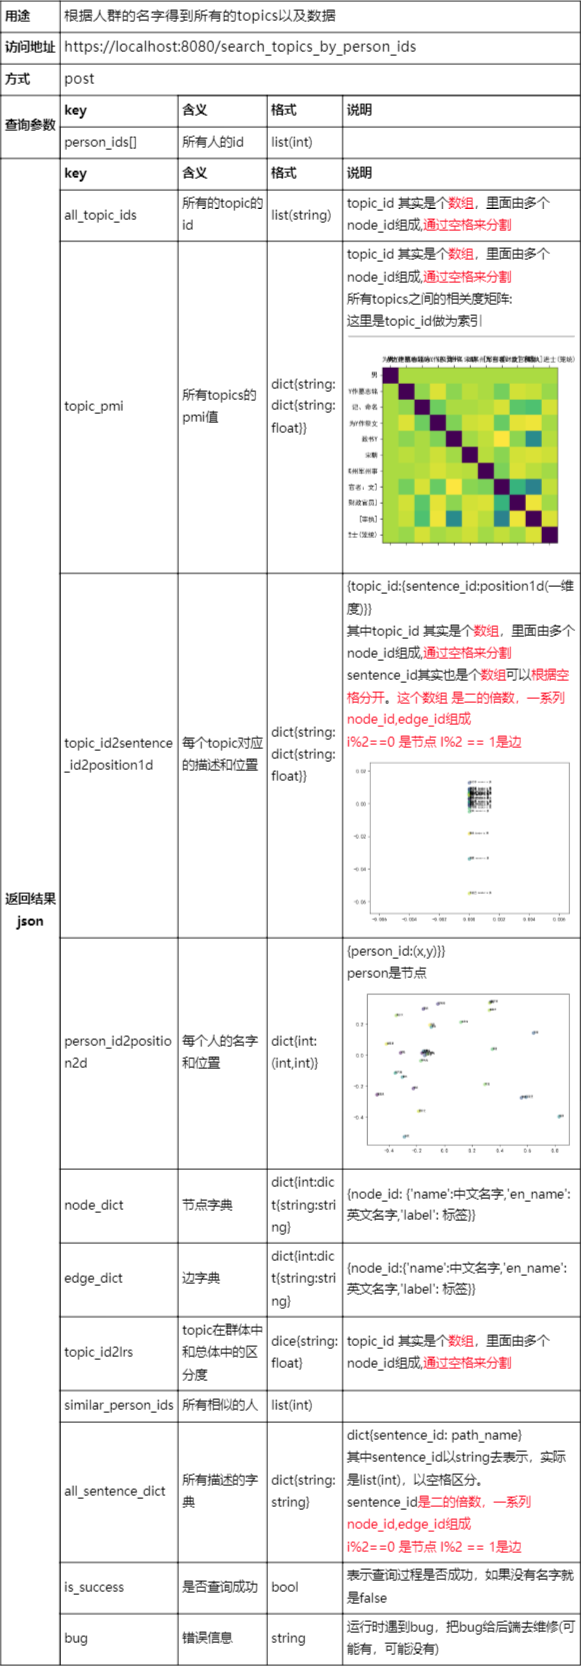
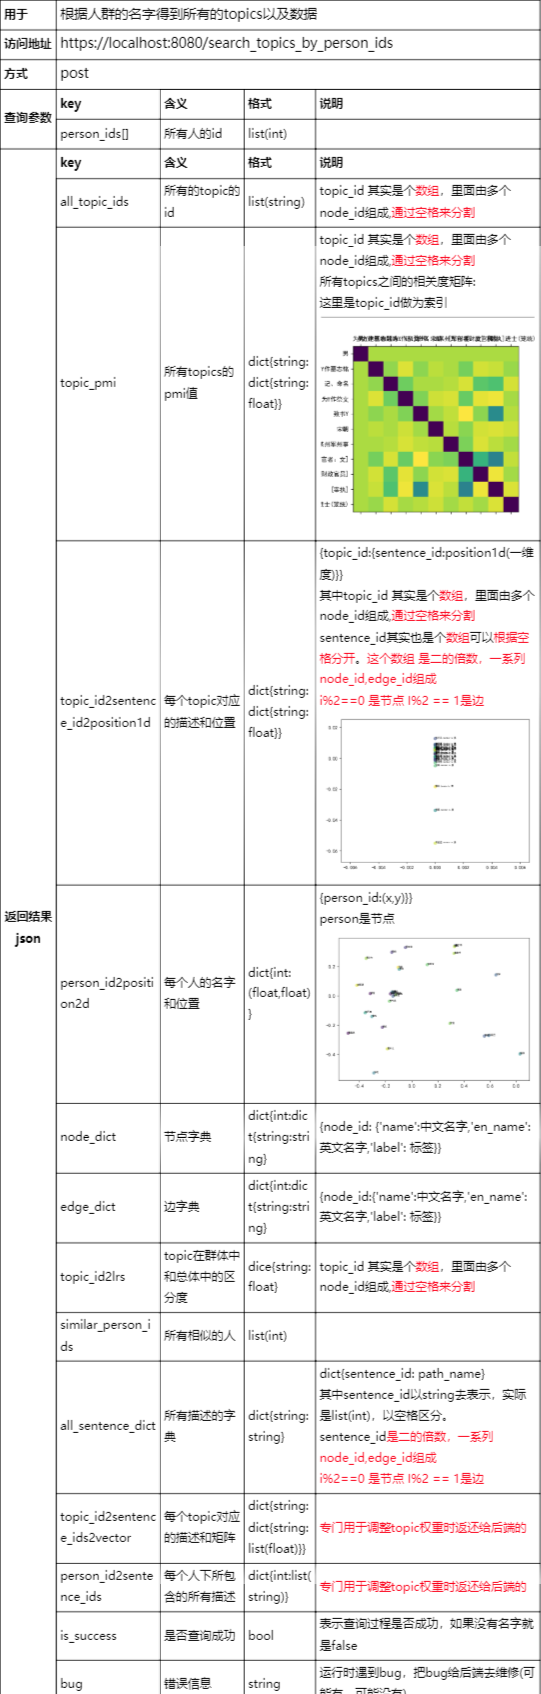
添加新接口adjust_topic_weights

Changed region(s): [[0.0, 0.0, 1.0, 1.0]]

diff --git a/templates/test_post.html b/templates/test_post.html
@@ -3,6 +3,7 @@
 <head>
     <meta charset="UTF-8">
     <title>post请求测试</title>
+    <script src="https://code.jquery.com/jquery-3.1.1.min.js"></script>
 </head>
 <body>
 <div>
@@ -56,7 +57,11 @@
         <input type="submit" value="搜索">
     </form>
 </div>
-
+<div>
+    <h2>调整topic_id权重</h2>
+    <label>执行前先要执行通过人名id搜索topic，然后再可视化一下，之后才能按调整topic_id权重这个按钮</label>
+    <button type="button" onclick="adjust_topic_weights()">调整topic_id权重</button>
+</div>
 <div>
     <h2>结果:
         <button type="button" onclick="show()">可视化</button>
@@ -67,9 +72,28 @@
 </html>
 
 <script type="text/javascript">
+    _json = {};
+
     function show() {
         var _content = document.getElementById('response').innerText; //获取json格式内容
+        _json = JSON.parse(_content);
         _content = JSON.stringify(JSON.parse(_content), null, 2);//将字符串转换成json对象
         document.getElementById('response').innerText = _content;
+    }
+
+    function adjust_topic_weights() {
+        $.ajax({
+            url: '/test_adjust_topic_weights/',
+            type: 'POST',
+            data: JSON.stringify({
+                "topic_weights": {'1 1 1': 2},
+                "topic_id2sentence_ids2vector": _json['topic_id2sentence_ids2vector'],
+                "person_id2sentence_ids": _json['person_id2sentence_ids']
+            }),
+            dataType: "json",
+            success: function (result) {
+                document.getElementById('response').innerText = JSON.stringify(result, null, 2);
+            }
+        });
     }
 </script>

diff --git a/group_anaysis/view.py b/group_anaysis/view.py
@@ -1,10 +1,11 @@
 import json
+import numpy as np
 from django.http import HttpResponse
 from django.shortcuts import render
 
 from services import common
 from services.service import get_ranges_by_name, get_topics_by_person_ids, get_person_by_ranges, get_init_ranges, \
-    get_address_by_person_ids, get_community_by_num_node_links, get_all_similar_person
+    get_address_by_person_ids, get_community_by_num_node_links, add_topic_weights
 
 
 def init_ranges(request):
@@ -88,19 +89,19 @@ def search_topics_by_person_ids(request):
         person_ids = request.POST.getlist('person_ids[]')
         try:
             person_ids = [int(_id) for _id in person_ids]
-            all_topic_ids, topic_id2sentence_id2position1d, topic_pmi, person_id2position2d, node_dict, edge_dict, topic_id2lrs, similar_person_ids, all_sentence_dict = get_topics_by_person_ids(
+            all_topic_ids, topic_id2sentence_ids2position1d, topic_pmi, person_id2position2d, node_dict, edge_dict, topic_id2lrs, similar_person_ids, all_sentence_dict, topic_id2sentence_ids2vector, person_id2sentence_ids = get_topics_by_person_ids(
                 person_ids, max_topic=15)
             result['all_topic_ids'] = [[int(_id) for _id in _ids] for _ids in all_topic_ids]
-            topic_id2sentence_id2position1d_json = {}
-            for _topic_id, _item in topic_id2sentence_id2position1d.items():
+            topic_id2sentence_ids2position1d_json = {}
+            for _topic_id, _item in topic_id2sentence_ids2position1d.items():
                 _topic_id = [str(_id) for _id in _topic_id]
                 _topic_id = ' '.join(_topic_id)
-                topic_id2sentence_id2position1d_json[_topic_id] = {}
+                topic_id2sentence_ids2position1d_json[_topic_id] = {}
                 for _sentence_id, _value in _item.items():
                     _sentence = [str(_id) for _id in _sentence_id]
                     _sentence = ' '.join(_sentence)
-                    topic_id2sentence_id2position1d_json[_topic_id][_sentence] = _value[0]
-            result['topic_id2sentence_id2position1d'] = topic_id2sentence_id2position1d_json
+                    topic_id2sentence_ids2position1d_json[_topic_id][_sentence] = _value[0]
+            result['topic_id2sentence_id2position1d'] = topic_id2sentence_ids2position1d_json
             topic_pmi_json = {}
             for _xs, _item in topic_pmi.items():
                 _xs = [str(_id) for _id in _xs]
@@ -127,9 +128,53 @@ def search_topics_by_person_ids(request):
                 _sentence_id = ' '.join(_sentence_id)
                 all_sentence_dict_json[_sentence_id] = _name
             result['all_sentence_dict'] = all_sentence_dict_json
+            topic_id2sentence_ids2vector_json = {}
+            for _topic_id, _item in topic_id2sentence_ids2vector.items():
+                _topic_id = [str(_id) for _id in _topic_id]
+                _topic_id = ' '.join(_topic_id)
+                topic_id2sentence_ids2vector_json[_topic_id] = {}
+                for _sentence_id, _value in _item.items():
+                    _sentence = [str(_id) for _id in _sentence_id]
+                    _sentence = ' '.join(_sentence)
+                    topic_id2sentence_ids2vector_json[_topic_id][_sentence] = [v for v in _value]
+            result['topic_id2sentence_ids2vector'] = topic_id2sentence_ids2vector_json
+            person_id2sentence_ids = {_person_id: list(_sentence_id) for _person_id, _sentence_id in
+                                      person_id2sentence_ids.items()}
+            result['person_id2sentence_ids'] = person_id2sentence_ids
             result['is_success'] = True
         except Exception as e:
             result['bug'] = '发给后端调试问题。输入为 person_ids:{}'.format(person_ids)
+    json_result = json.dumps(result)
+    return HttpResponse(json_result, content_type="application/json")
+
+
+def adjust_topic_weights(request):
+    request.encoding = 'utf-8'
+    result = {'is_success': False}
+    request_json = json.loads(request.body)
+    if 'topic_weights' in request_json and request_json['topic_weights'] and \
+            'topic_id2sentence_ids2vector' in request_json and request_json['topic_id2sentence_ids2vector'] and \
+            'person_id2sentence_ids' in request_json and request_json['person_id2sentence_ids']:
+        try:
+            topic_weights = {tuple([int(_id) for _id in _topic_id.split(' ')]): _weight for _topic_id, _weight in
+                             request_json['topic_weights'].items()}
+            topic_id2sentence_ids2vector_json = {}
+            for _topic_id, _items in request_json['topic_id2sentence_ids2vector'].items():
+                _topic_id = tuple([int(_id) for _id in _topic_id.split(' ')])
+                topic_id2sentence_ids2vector_json[_topic_id] = {}
+                for _sentence_id, _value in _items.items():
+                    _sentence = tuple([int(_id) for _id in _sentence_id.split(' ')])
+                    topic_id2sentence_ids2vector_json[_topic_id][_sentence] = np.array(_value)
+            person_id2sentence_ids = {int(_person_id): [tuple(_sentence_id) for _sentence_id in _sentence_ids] for
+                                      _person_id, _sentence_ids in request_json['person_id2sentence_ids'].items()}
+            person_id2position2d, person_dict = add_topic_weights(topic_weights,
+                                                                  topic_id2sentence_ids2vector_json,
+                                                                  person_id2sentence_ids)
+            result['person_id2position2d'] = person_id2position2d
+            result['person_dict'] = person_dict
+            result['is_success'] = True
+        except Exception as e:
+            result['bug'] = '发给后端调试问题。输入为 {}'.format(request_json)
     json_result = json.dumps(result)
     return HttpResponse(json_result, content_type="application/json")
 
@@ -179,3 +224,8 @@ def test_search_topics_by_person_ids(request):
     response = search_topics_by_person_ids(request)
     content = str(response.content, 'utf-8')
     return render(request, 'test_post.html', {'response': content})
+
+
+def test_adjust_topic_weights(request):
+    response = adjust_topic_weights(request)
+    return response

diff --git a/_test_service.py b/_test_service.py
@@ -5,7 +5,7 @@ import numpy as np
 
 from services import common
 from services.service import get_ranges_by_name, get_topics_by_person_ids, get_init_ranges, get_person_by_ranges, \
-    get_address_by_person_ids, get_all_similar_person
+    get_address_by_person_ids, get_all_similar_person, add_topic_weights
 from tools.sort_utils import sort_dict2list
 
 # linux去除中文乱码
@@ -18,7 +18,7 @@ plt.rcParams['axes.unicode_minus'] = False  # 用来正常显示负号
 if __name__ == '__main__':
     GRAPH_DAO = common.GRAPH_DAO
     NodeLabels = common.NodeLabels
-    # MetaPaths = common.MetaPaths
+    MetaPaths = common.MetaPaths
     # dynasties, status = get_init_ranges()
     # GRAPH_DAO.start_connect()
     # id = GRAPH_DAO.get_node_ids_by_name('王安石')[0]
@@ -26,7 +26,7 @@ if __name__ == '__main__':
     # result = {}
     # count = 0
     # for _key, meta_path in MetaPaths.items():
-    #     all_path = meta_path.match(id)
+    #     all_path = meta_path.get_all_paths_by_node_id(id)
     #     all_sentences = []
     #     for path in all_path:
     #         sentence = []
@@ -64,9 +64,13 @@ if __name__ == '__main__':
     person_ids = [_id[0] for _id in person_id2relation]
 
     start = timeit.default_timer()
-    all_topic_ids, topic_id2sentence_id2position1d, topic_pmi, person_id2position2d, node_dict, edge_dict, topic_id2lrs, similar_person_ids, all_sentence_dict = get_topics_by_person_ids(
-        person_ids, 1000, populate_ratio=0.6)
+    all_topic_ids, topic_id2sentence_id2position1d, topic_pmi, person_id2position2d, node_dict, edge_dict, topic_id2lrs, similar_person_ids, all_sentence_dict, topic_id2sentence_ids2vector, person_id2sentence_ids = get_topics_by_person_ids(
+        person_ids, 100, populate_ratio=0.8)
     print('查询所有topic的相关性:{}'.format(timeit.default_timer() - start))
+    topic_weights = {'1 2 3': 2}
+    person_id2position2d2, person_dict = add_topic_weights(topic_weights, topic_id2sentence_ids2vector,
+                                                           person_id2sentence_ids)
+
     # topic 相似矩阵
     pmi_names = list()
     _len = len(topic_pmi)

diff --git a/services/service.py b/services/service.py
@@ -183,7 +183,7 @@ def get_address_by_person_ids(person_ids):
     return address
 
 
-def get_topics_by_person_ids(person_ids, random_epoch=1000, max_topic=15, populate_ratio=0.1):
+def get_topics_by_person_ids(person_ids, random_epoch=1000, max_topic=15, populate_ratio=0.6):
     """根据人的id查询所有的topic
 
     Notes
@@ -248,8 +248,20 @@ def get_topics_by_person_ids(person_ids, random_epoch=1000, max_topic=15, popula
     similar_person_ids = get_all_similar_person(person_ids, topic_id2lrs)
     GRAPH_DAO.close_connect()
 
-    return all_topic_ids, dim2topic_id2sentence_ids2vector[
-        1], topic_pmi, person_id2position2d, node_dict, edge_dict, topic_id2lrs, similar_person_ids, all_sentence_dict
+    return all_topic_ids, dim2topic_id2sentence_ids2vector[1], topic_pmi, person_id2position2d, node_dict, edge_dict, \
+           topic_id2lrs, similar_person_ids, all_sentence_dict, dim2topic_id2sentence_ids2vector[5], \
+           person_id2sentence_ids
+
+
+# todo:这里还要有个topic的权重
+def add_topic_weights(topic_weights, topic_id2sentence_ids2vector, person_id2sentence_ids, num_dim=5):
+    GRAPH_DAO = common.GRAPH_DAO
+    GRAPH_DAO.start_connect()
+    person_id2position2d = person_tool.get_person_id2vector2d(topic_id2sentence_ids2vector,
+                                                              person_id2sentence_ids, num_dim=5)
+    person_dict = person_tool.get_person_dict(person_id2position2d.keys())
+    GRAPH_DAO.close_connect()
+    return person_id2position2d, person_dict
 
 
 def get_community_by_num_node_links(num_node, links):

diff --git a/group_anaysis/urls.py b/group_anaysis/urls.py
@@ -9,6 +9,7 @@ urlpatterns = [
     path('test_search_person_by_ranges/', view.test_search_person_by_ranges),
     path('test_search_address_by_person_ids/', view.test_search_address_by_person_ids),
     path('test_search_topics_by_person_ids/', view.test_search_topics_by_person_ids),
+    path('test_adjust_topic_weights/', view.test_adjust_topic_weights),
     # online
     path('init_ranges/', view.init_ranges),
     path('search_ranges_by_name/', view.search_ranges_by_name),
@@ -16,4 +17,5 @@ urlpatterns = [
     path('search_address_by_person_ids/', view.search_address_by_person_ids),
     path('search_topics_by_person_ids/', view.search_topics_by_person_ids),
     path('search_community_by_links/', view.search_community_by_links),
+    path('adjust_topic_weights/', view.adjust_topic_weights),
 ]

diff --git a/services/tools/person_tool.py b/services/tools/person_tool.py
@@ -129,3 +129,12 @@ def get_person_pmi(all_person_ids, person_id2sentence_ids, num_all_sentences):
             pmi = p_xy / p_x
             pmi_node[_x][_y] = 0 if pmi == 0 or _x == _y else math.log(pmi)
     return pmi_node
+
+
+def get_person_dict(all_person_ids):
+    GRAPH_DAO = common.GRAPH_DAO
+    person_dict = {}
+    for _id in all_person_ids:
+        person_dict[_id] = {'name': GRAPH_DAO.get_node_name_by_id(_id),
+                            'en_name': GRAPH_DAO.get_node_en_name_by_id(_id)}
+    return person_dict

diff --git a/README.md b/README.md
@@ -1,3 +1,5 @@
+# 更新 2020/3/23
+增加新的方法。adjust_topic_weights和search_community_by_links
 # 更新 2020/3/16
 将上述算法融入到了后端中。并修改了新的数据库
 
@@ -57,6 +59,10 @@ python manage.py runserver 127.0.0.1:8080
 ![](./images/search_address_by_person_ids.png)
 
 ![](./images/search_topic_by_person_ids.png)
+
+![](./images/adjust_topic_weights.png)
+
+![](./images/search_community_by_links.png)
 # 后端自测接口
 ```
 http://127.0.0.1:8080/test_init_ranges/
